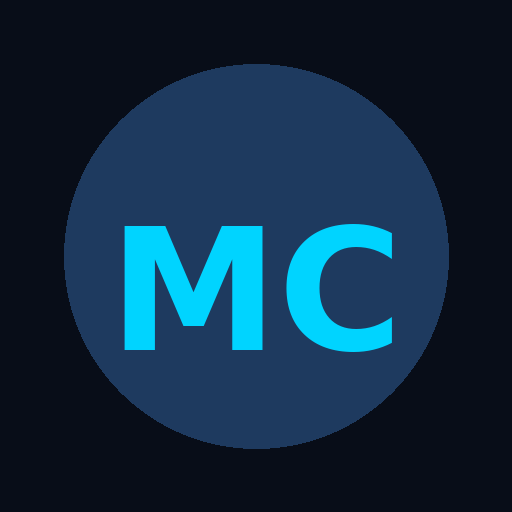
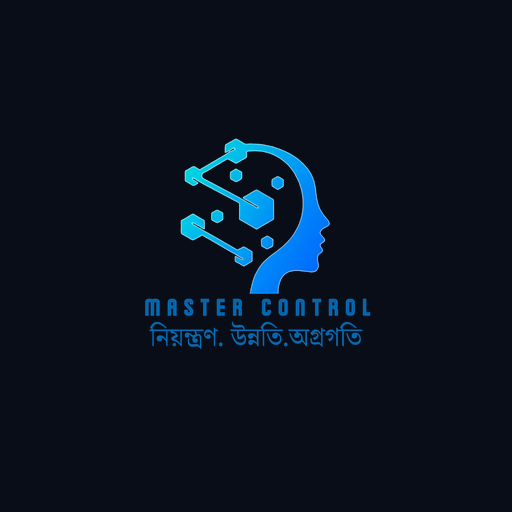
Add files via upload

diff --git a/index.html b/index.html
@@ -2475,26 +2475,48 @@
       <!-- Reminders -->
       <div style="padding:18px 16px; border-bottom:1px solid var(--border);">
         <div style="font-size:11px; font-weight:700; color:var(--text3); letter-spacing:1px; margin-bottom:14px;">রিমাইন্ডার</div>
+        <!-- Notification Permission Button -->
+        <div id="notif-permission-row" style="padding:0 0 14px; border-bottom:1px solid var(--border); margin-bottom:14px;">
+          <button class="btn btn-outline" onclick="requestNotifPermission()" id="notif-perm-btn" style="width:100%; font-size:13px;">
+            🔔 নোটিফিকেশন চালু করুন
+          </button>
+          <div id="notif-perm-status" style="font-size:11px; color:var(--text3); margin-top:6px; text-align:center;"></div>
+        </div>
+
+        <!-- Reminder 1 -->
         <div class="settings-row" style="padding:0 0 12px; border-bottom:1px solid var(--border);">
           <div>
-            <div class="settings-label">সকালের রিমাইন্ডার</div>
-            <div class="settings-sub">ফজরের পর কেগেল</div>
+            <div class="settings-label">১ম রিমাইন্ডার</div>
+            <div class="settings-sub">কেগেল করার সময়</div>
           </div>
-          <label class="toggle"><input type="checkbox" id="reminder-morning" checked onchange="saveSettings()"><div class="toggle-slider"></div></label>
+          <div style="display:flex; align-items:center; gap:8px;">
+            <input type="time" id="reminder-time-1" value="08:00" onchange="saveSettings()" style="background:var(--surface2); border:1px solid var(--border); border-radius:8px; color:var(--text); padding:6px 10px; font-size:13px; font-family:inherit;">
+            <label class="toggle"><input type="checkbox" id="reminder-morning" checked onchange="saveSettings()"><div class="toggle-slider"></div></label>
+          </div>
         </div>
+
+        <!-- Reminder 2 -->
         <div class="settings-row" style="padding:12px 0 12px; border-bottom:1px solid var(--border);">
           <div>
-            <div class="settings-label">দুপুরের রিমাইন্ডার</div>
-            <div class="settings-sub">যোহরের পর</div>
+            <div class="settings-label">২য় রিমাইন্ডার</div>
+            <div class="settings-sub">কেগেল করার সময়</div>
           </div>
-          <label class="toggle"><input type="checkbox" id="reminder-noon" onchange="saveSettings()"><div class="toggle-slider"></div></label>
+          <div style="display:flex; align-items:center; gap:8px;">
+            <input type="time" id="reminder-time-2" value="13:00" onchange="saveSettings()" style="background:var(--surface2); border:1px solid var(--border); border-radius:8px; color:var(--text); padding:6px 10px; font-size:13px; font-family:inherit;">
+            <label class="toggle"><input type="checkbox" id="reminder-noon" onchange="saveSettings()"><div class="toggle-slider"></div></label>
+          </div>
         </div>
+
+        <!-- Reminder 3 -->
         <div class="settings-row" style="padding:12px 0 0; border:none;">
           <div>
-            <div class="settings-label">রাতের রিমাইন্ডার</div>
-            <div class="settings-sub">ঘুমের আগে</div>
+            <div class="settings-label">৩য় রিমাইন্ডার</div>
+            <div class="settings-sub">কেগেল করার সময়</div>
           </div>
-          <label class="toggle"><input type="checkbox" id="reminder-night" checked onchange="saveSettings()"><div class="toggle-slider"></div></label>
+          <div style="display:flex; align-items:center; gap:8px;">
+            <input type="time" id="reminder-time-3" value="21:00" onchange="saveSettings()" style="background:var(--surface2); border:1px solid var(--border); border-radius:8px; color:var(--text); padding:6px 10px; font-size:13px; font-family:inherit;">
+            <label class="toggle"><input type="checkbox" id="reminder-night" checked onchange="saveSettings()"><div class="toggle-slider"></div></label>
+          </div>
         </div>
       </div>
 
@@ -3483,6 +3505,7 @@ function showScreen(id) {
   if (id === 'kegel') { setTimeout(() => renderMuscleGuide(1), 100); initChallenge(); }
   if (id === 'edu')   setTimeout(() => renderMuscleGuide(2), 100);
   if (id === 'journey') renderJourneyFeed();
+  if (id === 'settings') setTimeout(() => updateNotifPermStatus(), 100);
 }
 
 // =====================
@@ -3498,6 +3521,7 @@ function initApp() {
   buildBarCharts();
   loadSettingsUI();
   updateAchievements();
+  scheduleNotifications();
   // Init muscle guides with user's gender preference
   const g = state.user.gender || 'male';
   mgGender  = g; mg2Gender  = g;
@@ -5325,6 +5349,71 @@ function loadSettingsUI() {
   document.getElementById('reminder-night').checked = state.settings.reminders.night;
   document.getElementById('vibration').checked = state.settings.vibration;
   document.getElementById('sound').checked = state.settings.sound;
+  if (state.settings.reminderTimes) {
+    document.getElementById('reminder-time-1').value = state.settings.reminderTimes[0] || '08:00';
+    document.getElementById('reminder-time-2').value = state.settings.reminderTimes[1] || '13:00';
+    document.getElementById('reminder-time-3').value = state.settings.reminderTimes[2] || '21:00';
+  }
+}
+
+function updateNotifPermStatus() {
+  const btn = document.getElementById('notif-perm-btn');
+  const status = document.getElementById('notif-perm-status');
+  if (!btn || !status) return;
+  if (!('Notification' in window)) {
+    status.textContent = '❌ এই browser এ notification সাপোর্ট নেই';
+    btn.style.display = 'none';
+    return;
+  }
+  if (Notification.permission === 'granted') {
+    btn.textContent = '✅ নোটিফিকেশন চালু আছে';
+    btn.style.background = 'rgba(34,197,94,0.1)';
+    btn.style.borderColor = 'rgba(34,197,94,0.4)';
+    btn.style.color = '#4ade80';
+    status.textContent = 'সময় সেট করুন এবং সেটিংস সংরক্ষণ করুন';
+  } else if (Notification.permission === 'denied') {
+    btn.textContent = '🔕 নোটিফিকেশন বন্ধ আছে';
+    status.textContent = 'Phone settings থেকে Chrome এর notification চালু করুন';
+  } else {
+    btn.textContent = '🔔 নোটিফিকেশন চালু করুন';
+    status.textContent = '';
+  }
+}
+
+async function requestNotifPermission() {
+  if (!('Notification' in window)) { showToast('❌ এই browser এ notification নেই'); return; }
+  if (Notification.permission === 'granted') { showToast('✅ ইতিমধ্যে চালু আছে'); return; }
+  const perm = await Notification.requestPermission();
+  updateNotifPermStatus();
+  if (perm === 'granted') { showToast('✅ নোটিফিকেশন চালু হয়েছে!'); scheduleNotifications(); }
+  else showToast('❌ অনুমতি দেওয়া হয়নি');
+}
+
+function scheduleNotifications() {
+  if (window._notifTimers) window._notifTimers.forEach(clearTimeout);
+  window._notifTimers = [];
+  if (!('Notification' in window)) return;
+  if (Notification.permission !== 'granted') return;
+  const times = state.settings.reminderTimes || ['08:00','13:00','21:00'];
+  const enabled = [state.settings.reminders.morning, state.settings.reminders.noon, state.settings.reminders.night];
+  const msgs = [
+    '💪 সময় হয়েছে কেগেল করার! ছোট্ট ৫ মিনিট — বড় পরিবর্তন।',
+    '🌟 দুপুরের কেগেল রিমাইন্ডার — এখনই করে নিন!',
+    '🌙 রাতের কেগেল সেশন বাকি আছে — শেষ করুন আজকেই।'
+  ];
+  times.forEach((time, i) => {
+    if (!enabled[i]) return;
+    const [h, m] = time.split(':').map(Number);
+    const now = new Date(), target = new Date();
+    target.setHours(h, m, 0, 0);
+    if (target <= now) target.setDate(target.getDate() + 1);
+    const t = setTimeout(() => {
+      playNotifChime();
+      new Notification('মাস্টার কন্ট্রোল 💪', { body: msgs[i], icon: 'icon-192.png', vibrate: [200,100,200] });
+      scheduleNotifications();
+    }, target - now);
+    window._notifTimers.push(t);
+  });
 }
 
 function setGenderSettings(g) {
@@ -5349,7 +5438,13 @@ function saveSettings() {
   state.settings.reminders.night = document.getElementById('reminder-night').checked;
   state.settings.vibration = document.getElementById('vibration').checked;
   state.settings.sound = document.getElementById('sound').checked;
+  state.settings.reminderTimes = [
+    document.getElementById('reminder-time-1').value || '08:00',
+    document.getElementById('reminder-time-2').value || '13:00',
+    document.getElementById('reminder-time-3').value || '21:00'
+  ];
   saveState();
+  scheduleNotifications();
 }
 
 function saveProfileSettings() {
@@ -5762,17 +5857,35 @@ function playWarmTap() {
   try {
     const ac = getAC();
     if (ac.state === 'suspended') ac.resume();
-    const freqs = [440, 550];
+    const freqs = [523.25, 659.25, 783.99];
     freqs.forEach((f, i) => {
       const o = ac.createOscillator();
       const g = ac.createGain();
       o.connect(g); g.connect(ac.destination);
-      o.type = 'triangle'; o.frequency.value = f;
-      const t = ac.currentTime + i * 0.04;
+      o.type = 'sine'; o.frequency.value = f;
+      const t = ac.currentTime + i * 0.06;
       g.gain.setValueAtTime(0, t);
-      g.gain.linearRampToValueAtTime(0.18, t + 0.01);
-      g.gain.exponentialRampToValueAtTime(0.001, t + 0.4);
-      o.start(t); o.stop(t + 0.4);
+      g.gain.linearRampToValueAtTime(0.08, t + 0.03);
+      g.gain.exponentialRampToValueAtTime(0.001, t + 1.2);
+      o.start(t); o.stop(t + 1.2);
+    });
+  } catch(e) {}
+}
+
+function playNotifChime() {
+  try {
+    const ac = getAC();
+    if (ac.state === 'suspended') ac.resume();
+    [523.25, 783.99].forEach((f, i) => {
+      const o = ac.createOscillator();
+      const g = ac.createGain();
+      o.connect(g); g.connect(ac.destination);
+      o.type = 'sine'; o.frequency.value = f;
+      const t = ac.currentTime + i * 0.2;
+      g.gain.setValueAtTime(0, t);
+      g.gain.linearRampToValueAtTime(0.12, t + 0.05);
+      g.gain.exponentialRampToValueAtTime(0.001, t + 1.5);
+      o.start(t); o.stop(t + 1.5);
     });
   } catch(e) {}
 }